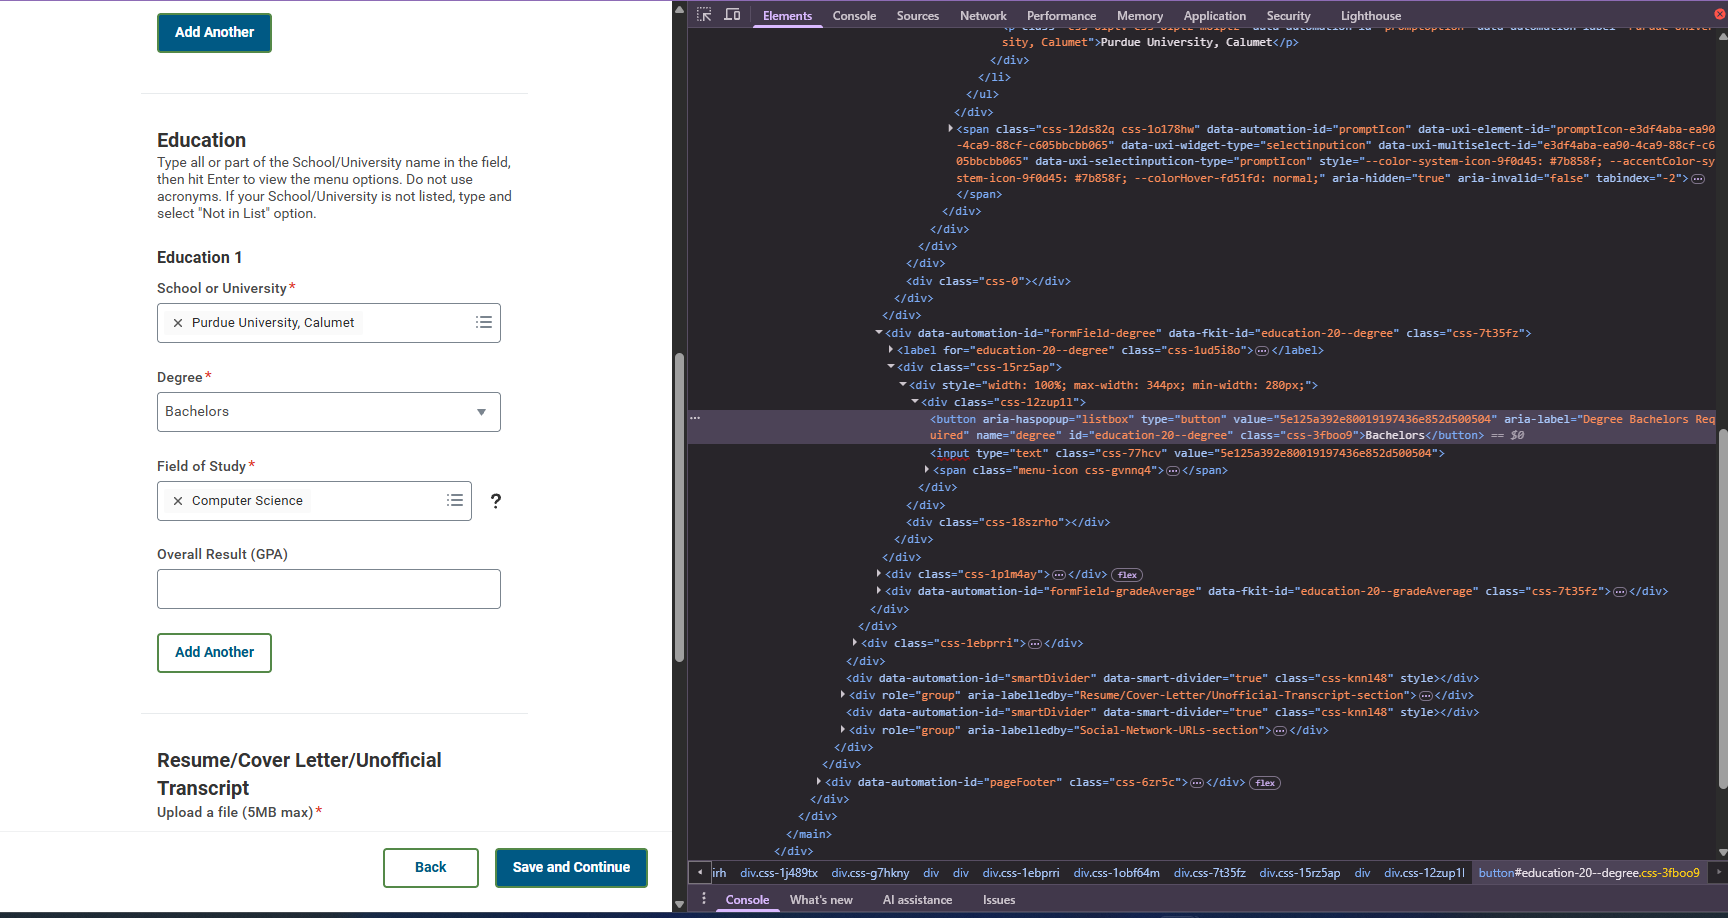
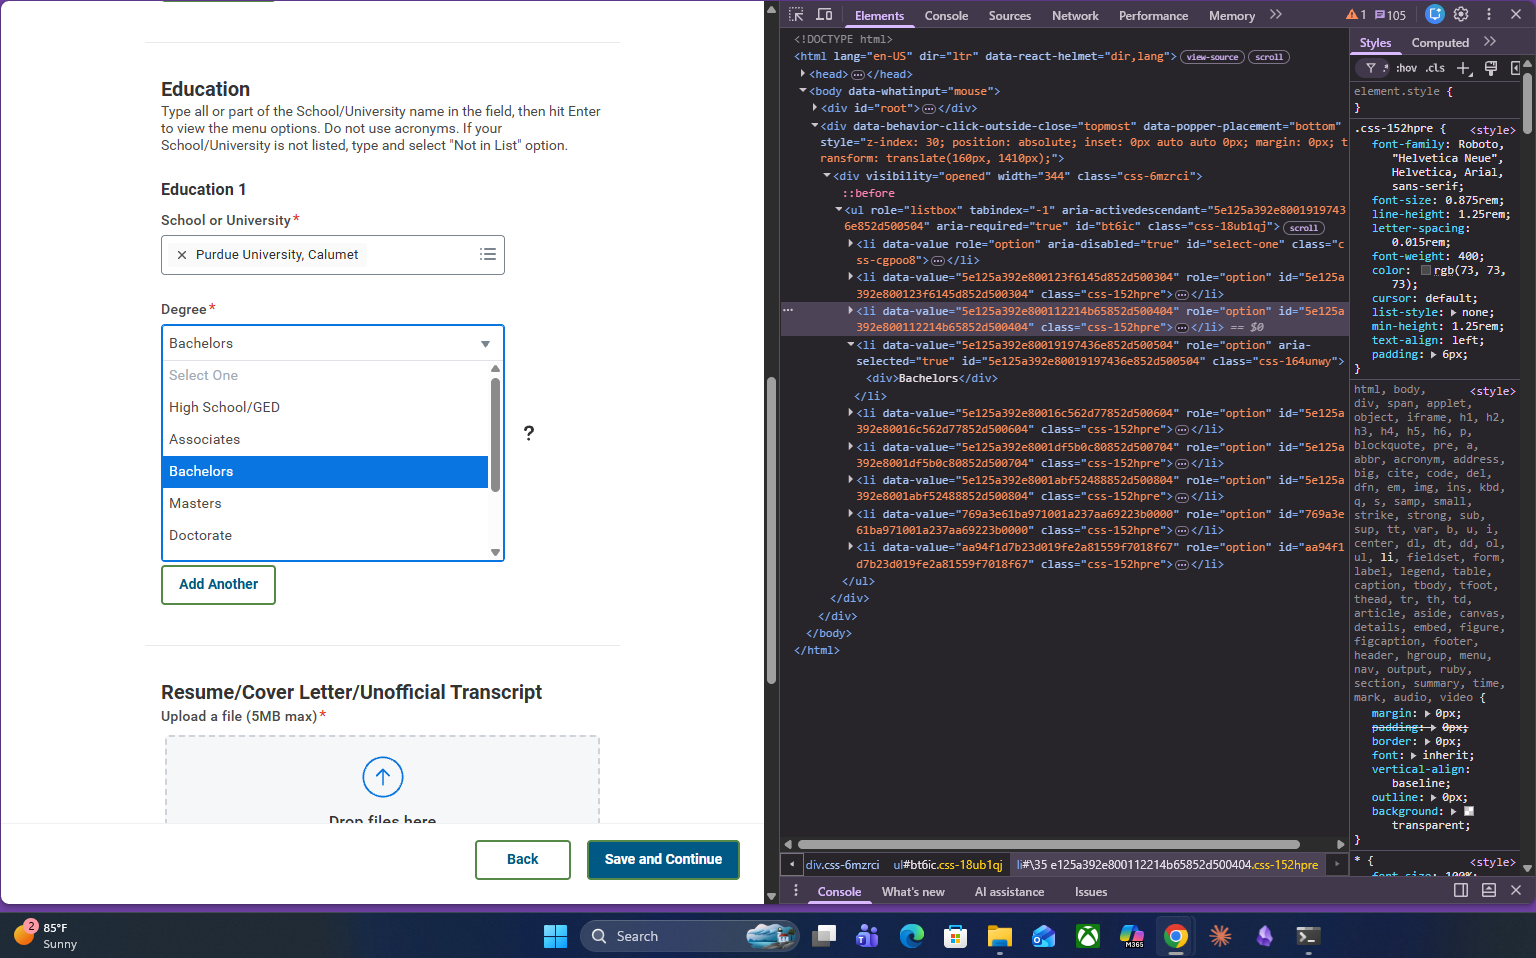
Repair the dead formField container selector at four call sites
F3. Workday emits data-automation-id="formField-school",
"formField-degree", "formField-gradeAverage" -- never a bare "formField" --
so every exact-match closest() lookup silently returned null.

Widened to a prefix match at four sites:

  fillGPA               third fallback was dead, so a GPA field with neither
                        aria-label nor label[for] never filled. The label must
                        still match /gpa/i, so nothing else can be picked up.
  handleSearchablePicker always fell through to label.parentElement, a wrapper
                        too narrow to contain the input. Contributing cause of
                        F2 "Could not find searchBox for school" -- necessary
                        but not sufficient, the searchBox selector is wrong too.
  autoAnswerRadioExact  closest() returns the NEAREST match, so the question's
  autoAnswerRadio       own formField-* wrapper now wins over an outer fieldset.
                        Tighter scoping, less chance of reaching a neighbouring
                        question's radios.

collectLabelTexts is deliberately left as an exact match. Widening it does not
merely repair a dead lookup, it enlarges the candidate set fillFieldByFuzzyLabel
writes into: Workday points a multiselect's <label for> at the widget container
rather than the inner search input, so those inputs carry no label text today.
Give them their container's label and a fuzzy key could write raw text into a
[…]

diff --git a/content.js b/content.js
@@ -448,6 +448,17 @@ function collectLabelTexts(input) {
         if (label) texts.push(label.innerText);
     }
 
+    // NOTE: deliberately still an EXACT match on formField, unlike the other
+    // four call sites which were widened to [data-automation-id^="formField"].
+    //
+    // Widening here does not just repair a dead lookup, it enlarges the
+    // candidate set that fillFieldByFuzzyLabel writes into. Workday points a
+    // multiselect's <label for> at the widget container div rather than at the
+    // inner search <input>, so those inputs carry no label text today and are
+    // never written to. Give them their container's label and a fuzzy key could
+    // setNativeValue raw text straight into a School / Field of Study search
+    // box. Needs a full-form capture in tools/captures/ to model against before
+    // it is changed — see F3 in SHARED_TASK_NOTES.md.
     const container = input.closest('div[data-automation-id="formField"], div[data-automation-id="dateWidget"]');
     if (container) {
         const labelEl = container.querySelector('label');
@@ -545,7 +556,11 @@ function fillGPA(gpaValue) {
             if (label && /cumulative gpa|gpa/i.test(label.innerText)) target = input;
         }
         if (!target) {
-            const container = input.closest('div[data-automation-id="formField"]');
+            // Prefix match: Workday emits formField-gradeAverage, not a bare
+            // "formField", so the exact selector never matched and this third
+            // fallback was dead. Safe to widen here — the label still has to
+            // match /gpa/i, so nothing else can be picked up.
+            const container = input.closest('div[data-automation-id^="formField"]');
             if (container) {
                 const label = container.querySelector('label');
                 if (label && /cumulative gpa|gpa/i.test(label.innerText)) target = input;
@@ -606,7 +621,12 @@ async function handleSearchablePicker(keys, value) {
             const labelXpath = `//label[contains(translate(text(), 'ABCDEFGHIJKLMNOPQRSTUVWXYZ', 'abcdefghijklmnopqrstuvwxyz'), "${key.toLowerCase()}")]`;
             const label = getElementByXpath(labelXpath);
             if (label) {
-                const container = label.closest('div[data-automation-id="formField"]') || label.parentElement;
+                // Prefix match: the exact selector never matched Workday's
+                // formField-school / formField-degree, so this always fell
+                // through to label.parentElement — a wrapper too narrow to
+                // contain the input, which is part of why F2 reports
+                // "Could not find searchBox for school".
+                const container = label.closest('div[data-automation-id^="formField"]') || label.parentElement;
                 if (container) {
                     input = container.querySelector('input[data-automation-id="searchBox"]');
                     if (input) break;
@@ -1173,7 +1193,11 @@ async function autoAnswerRadioExact(keywords, exactChoice) {
     const matches = labels.filter(label => matchesAny(label.innerText, keywords));
 
     for (const label of matches) {
-        const container = label.closest('div[data-automation-id="formField"], fieldset, div[role="group"]');
+        // Prefix match. closest() returns the NEAREST matching ancestor, so this
+        // makes the question's own formField-* wrapper win over an outer
+        // fieldset — tighter scoping, less chance of picking up a neighbouring
+        // question's radios.
+        const container = label.closest('div[data-automation-id^="formField"], fieldset, div[role="group"]');
 
         if (container) {
             const radios = container.querySelectorAll('input[type="radio"]');
@@ -1624,7 +1648,8 @@ async function answerYesNo(questionText, userChoice) {
 
     for (const label of matchingLabels) {
         // Find the associated form field container
-        const container = label.closest('div[data-automation-id="formField"], fieldset, div[role="group"], div[role="radiogroup"]');
+        // Prefix match — same tighter-scoping rationale as autoAnswerRadioExact.
+        const container = label.closest('div[data-automation-id^="formField"], fieldset, div[role="group"], div[role="radiogroup"]');
 
         if (container) {
             // Find all radio buttons in this container
